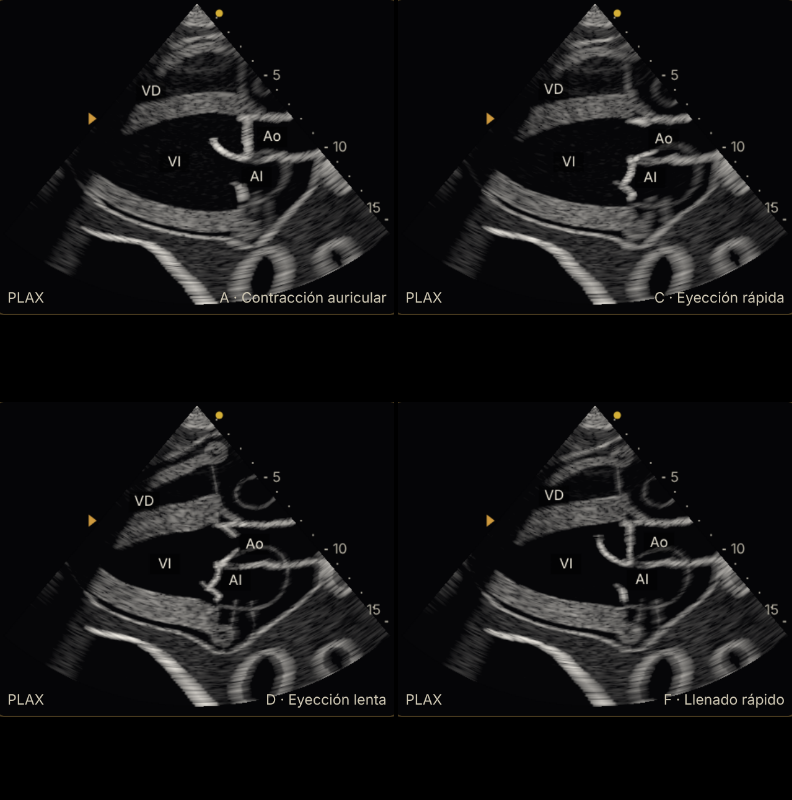
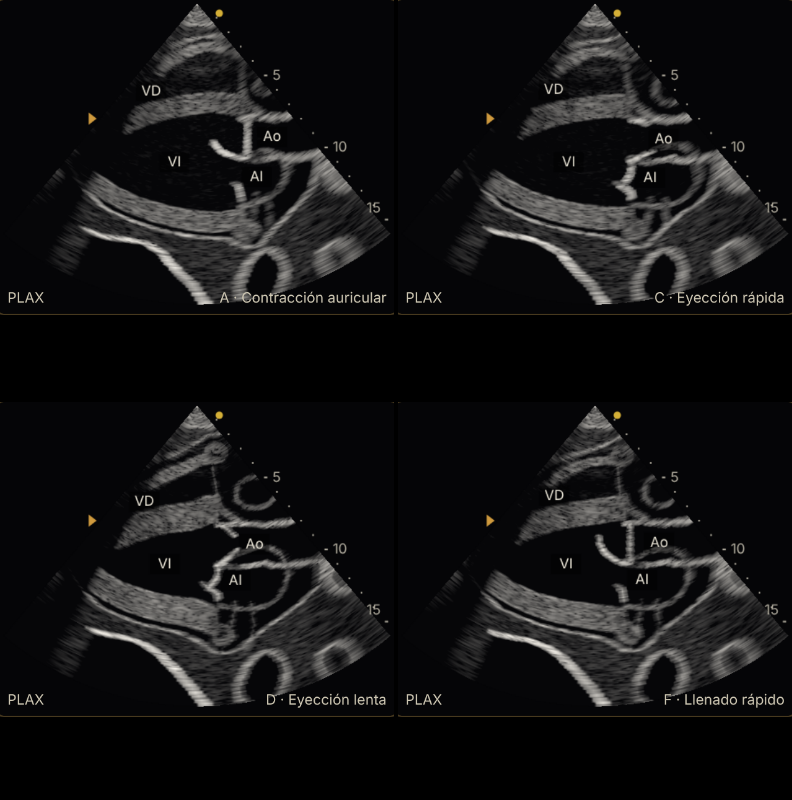
mv-eco-2a5 paso 6: juicio de realismo 1 (9,29) y capturas
Claude-Session: https://claude.ai/code/session_01QiKC3AgYADeMutygoj3HRu

diff --git a/autonomo/bloques/mv-eco/capturas-realismo/mov/cifras-mov-doppler.md b/autonomo/bloques/mv-eco/capturas-realismo/mov/cifras-mov-doppler.md
@@ -2,25 +2,25 @@
 Origen: «monitor» = texto que enseña la app (#cv-l-vi, #cv-d-resultado, #cv-m-resultado, #cv-l-lat); «derivado» = cuenta sobre cifras del monitor; «anatomia.mjs» = tapseDeLatido(motor.ultimo) porque la app solo lo enseña al poner calibres.
 
 ## mov-normal-a4c (normal, a4c; recortes izquierda→derecha, arriba→abajo: A, C, D, F)
-- A · telediástole: VI 119 mL · 10 mmHg · VD 138 mL · 6 mmHg · Ao 71 mmHg · AP 13 · rótulo «A · Contracción auricular»  _[monitor]_
-- C · sístole media: VI 88 mL · 96 mmHg · VD 119 mL · 18 mmHg · Ao 95 mmHg · AP 15 · rótulo «C · Eyección rápida»  _[monitor]_
-- D · fin de sístole: VI 47 mL · 103 mmHg · VD 77 mL · 20 mmHg · Ao 103 mmHg · AP 21 · rótulo «D · Eyección lenta»  _[monitor]_
+- A · telediástole: VI 119 mL · 10 mmHg · VD 138 mL · 6 mmHg · Ao 72 mmHg · AP 13 · rótulo «A · Contracción auricular»  _[monitor]_
+- C · sístole media: VI 88 mL · 97 mmHg · VD 119 mL · 18 mmHg · Ao 95 mmHg · AP 15 · rótulo «C · Eyección rápida»  _[monitor]_
+- D · fin de sístole: VI 47 mL · 103 mmHg · VD 76 mL · 20 mmHg · Ao 104 mmHg · AP 21 · rótulo «D · Eyección lenta»  _[monitor]_
 - F · llenado rápido: VI 71 mL · 4 mmHg · VD 87 mL · 2 mmHg · Ao 86 mmHg · AP 18 · rótulo «F · Llenado rápido»  _[monitor]_
 - VTD (VI, máximo del latido): 120 mL  _[motor.onda (volumen del VI)]_
 - VTS (VI, mínimo del latido): 45 mL  _[motor.onda (volumen del VI)]_
-- FEVI: 63 %  _[derivado (VTD−VTS)/VTD]_
-- Último latido: PA 105/66 (PAM 86) · FC 69 · GC 5.1 L/min · PVC 4  _[monitor]_
+- FEVI: 62 %  _[derivado (VTD−VTS)/VTD]_
+- Último latido: PA 105/67 (PAM 86) · FC 69 · GC 5.0 L/min · PVC 4  _[monitor]_
 - TAPSE: 23 mm  _[anatomia.mjs]_
 
 ## mov-normal-plax (normal, plax; recortes izquierda→derecha, arriba→abajo: A, C, D, F)
-- A · telediástole: VI 119 mL · 10 mmHg · VD 138 mL · 6 mmHg · Ao 71 mmHg · AP 13 · rótulo «A · Contracción auricular»  _[monitor]_
-- C · sístole media: VI 88 mL · 96 mmHg · VD 119 mL · 18 mmHg · Ao 95 mmHg · AP 15 · rótulo «C · Eyección rápida»  _[monitor]_
-- D · fin de sístole: VI 47 mL · 103 mmHg · VD 77 mL · 20 mmHg · Ao 103 mmHg · AP 21 · rótulo «D · Eyección lenta»  _[monitor]_
+- A · telediástole: VI 119 mL · 10 mmHg · VD 138 mL · 6 mmHg · Ao 72 mmHg · AP 13 · rótulo «A · Contracción auricular»  _[monitor]_
+- C · sístole media: VI 88 mL · 97 mmHg · VD 119 mL · 18 mmHg · Ao 95 mmHg · AP 15 · rótulo «C · Eyección rápida»  _[monitor]_
+- D · fin de sístole: VI 47 mL · 103 mmHg · VD 76 mL · 20 mmHg · Ao 104 mmHg · AP 21 · rótulo «D · Eyección lenta»  _[monitor]_
 - F · llenado rápido: VI 71 mL · 4 mmHg · VD 87 mL · 2 mmHg · Ao 86 mmHg · AP 18 · rótulo «F · Llenado rápido»  _[monitor]_
 - VTD (VI, máximo del latido): 120 mL  _[motor.onda (volumen del VI)]_
 - VTS (VI, mínimo del latido): 45 mL  _[motor.onda (volumen del VI)]_
-- FEVI: 63 %  _[derivado (VTD−VTS)/VTD]_
-- Último latido: PA 105/66 (PAM 86) · FC 69 · GC 5.1 L/min · PVC 4  _[monitor]_
+- FEVI: 62 %  _[derivado (VTD−VTS)/VTD]_
+- Último latido: PA 105/67 (PAM 86) · FC 69 · GC 5.0 L/min · PVC 4  _[monitor]_
 - TAPSE: 23 mm  _[anatomia.mjs]_
 
 ## mov-hipertrofia-plax (hipertrofia, g=1, plax; recortes izquierda→derecha, arriba→abajo: A, C, D, F)
@@ -35,37 +35,37 @@ Origen: «monitor» = texto que enseña la app (#cv-l-vi, #cv-d-resultado, #cv-m
 - TAPSE: 13.5 mm  _[anatomia.mjs]_
 
 ## mov-normal-psax (normal, psaxPm; recortes izquierda→derecha, arriba→abajo: A, C, D, F)
-- A · telediástole: VI 119 mL · 10 mmHg · VD 138 mL · 6 mmHg · Ao 71 mmHg · AP 13 · rótulo «A · Contracción auricular»  _[monitor]_
-- C · sístole media: VI 88 mL · 96 mmHg · VD 119 mL · 18 mmHg · Ao 95 mmHg · AP 15 · rótulo «C · Eyección rápida»  _[monitor]_
-- D · fin de sístole: VI 47 mL · 103 mmHg · VD 77 mL · 20 mmHg · Ao 103 mmHg · AP 21 · rótulo «D · Eyección lenta»  _[monitor]_
+- A · telediástole: VI 119 mL · 10 mmHg · VD 138 mL · 6 mmHg · Ao 72 mmHg · AP 13 · rótulo «A · Contracción auricular»  _[monitor]_
+- C · sístole media: VI 88 mL · 97 mmHg · VD 119 mL · 18 mmHg · Ao 95 mmHg · AP 15 · rótulo «C · Eyección rápida»  _[monitor]_
+- D · fin de sístole: VI 47 mL · 103 mmHg · VD 76 mL · 20 mmHg · Ao 104 mmHg · AP 21 · rótulo «D · Eyección lenta»  _[monitor]_
 - F · llenado rápido: VI 71 mL · 4 mmHg · VD 87 mL · 2 mmHg · Ao 86 mmHg · AP 18 · rótulo «F · Llenado rápido»  _[monitor]_
 - VTD (VI, máximo del latido): 120 mL  _[motor.onda (volumen del VI)]_
 - VTS (VI, mínimo del latido): 45 mL  _[motor.onda (volumen del VI)]_
-- FEVI: 63 %  _[derivado (VTD−VTS)/VTD]_
-- Último latido: PA 105/66 (PAM 86) · FC 69 · GC 5.1 L/min · PVC 4  _[monitor]_
+- FEVI: 62 %  _[derivado (VTD−VTS)/VTD]_
+- Último latido: PA 105/67 (PAM 86) · FC 69 · GC 5.0 L/min · PVC 4  _[monitor]_
 - TAPSE: 23 mm  _[anatomia.mjs]_
 
 ## mov-hp-psax (hpcronica, g=1, psaxPm; recortes izquierda→derecha, arriba→abajo: A, C, D, F)
-- A · telediástole: VI 60 mL · 9 mmHg · VD 228 mL · 20 mmHg · Ao 70 mmHg · AP 46 · rótulo «A · Contracción auricular»  _[monitor]_
-- C · sístole media: VI 49 mL · 82 mmHg · VD 218 mL · 58 mmHg · Ao 81 mmHg · AP 61 · rótulo «C · Eyección rápida»  _[monitor]_
-- D · fin de sístole: VI 28 mL · 84 mmHg · VD 204 mL · 92 mmHg · Ao 84 mmHg · AP 92 · rótulo «D · Eyección lenta»  _[monitor]_
-- F · llenado rápido: VI 29 mL · 6 mmHg · VD 196 mL · 19 mmHg · Ao 74 mmHg · AP 59 · rótulo «F · Llenado rápido»  _[monitor]_
+- A · telediástole: VI 59 mL · 9 mmHg · VD 227 mL · 20 mmHg · Ao 70 mmHg · AP 43 · rótulo «A · Contracción auricular»  _[monitor]_
+- C · sístole media: VI 49 mL · 82 mmHg · VD 214 mL · 64 mmHg · Ao 81 mmHg · AP 68 · rótulo «C · Eyección rápida»  _[monitor]_
+- D · fin de sístole: VI 27 mL · 84 mmHg · VD 201 mL · 99 mmHg · Ao 84 mmHg · AP 99 · rótulo «D · Eyección lenta»  _[monitor]_
+- F · llenado rápido: VI 29 mL · 6 mmHg · VD 195 mL · 20 mmHg · Ao 74 mmHg · AP 55 · rótulo «F · Llenado rápido»  _[monitor]_
 - VTD (VI, máximo del latido): 60 mL  _[motor.onda (volumen del VI)]_
-- VTS (VI, mínimo del latido): 27 mL  _[motor.onda (volumen del VI)]_
+- VTS (VI, mínimo del latido): 26 mL  _[motor.onda (volumen del VI)]_
 - FEVI: 56 %  _[derivado (VTD−VTS)/VTD]_
-- Último latido: PA 85/67 (PAM 76) · FC 94 · GC 3.0 L/min · PVC 15  _[monitor]_
+- Último latido: PA 86/67 (PAM 76) · FC 94 · GC 3.0 L/min · PVC 16  _[monitor]_
 - TAPSE: 9.1 mm  _[anatomia.mjs]_
 
 ## mov-tep-a4c (tep, g=1, a4c; recortes izquierda→derecha, arriba→abajo: A, C, D, F)
-- A · telediástole: VI 29 mL · 2 mmHg · VD 219 mL · 18 mmHg · Ao 57 mmHg · AP 23 · rótulo «A · Contracción auricular»  _[monitor]_
-- C · sístole media: VI 39 mL · 63 mmHg · VD 209 mL · 28 mmHg · Ao 62 mmHg · AP 28 · rótulo «C · Eyección rápida»  _[monitor]_
-- D · fin de sístole: VI 25 mL · 64 mmHg · VD 199 mL · 31 mmHg · Ao 64 mmHg · AP 39 · rótulo «D · Eyección lenta»  _[monitor]_
-- F · llenado rápido: VI 43 mL · 3 mmHg · VD 219 mL · 18 mmHg · Ao 56 mmHg · AP 21 · rótulo «F · Llenado rápido»  _[monitor]_
-- VTD (VI, máximo del latido): 45 mL  _[motor.onda (volumen del VI)]_
+- A · telediástole: VI 29 mL · 2 mmHg · VD 218 mL · 17 mmHg · Ao 58 mmHg · AP 23 · rótulo «A · Contracción auricular»  _[monitor]_
+- C · sístole media: VI 39 mL · 64 mmHg · VD 207 mL · 29 mmHg · Ao 63 mmHg · AP 30 · rótulo «C · Eyección rápida»  _[monitor]_
+- D · fin de sístole: VI 25 mL · 64 mmHg · VD 198 mL · 37 mmHg · Ao 65 mmHg · AP 39 · rótulo «D · Eyección lenta»  _[monitor]_
+- F · llenado rápido: VI 43 mL · 3 mmHg · VD 218 mL · 17 mmHg · Ao 56 mmHg · AP 21 · rótulo «F · Llenado rápido»  _[monitor]_
+- VTD (VI, máximo del latido): 46 mL  _[motor.onda (volumen del VI)]_
 - VTS (VI, mínimo del latido): 24 mL  _[motor.onda (volumen del VI)]_
 - FEVI: 47 %  _[derivado (VTD−VTS)/VTD]_
-- Último latido: PA 65/53 (PAM 59) · FC 119 · GC 2.3 L/min · PVC 9  _[monitor]_
-- TAPSE: 6.5 mm  _[anatomia.mjs]_
+- Último latido: PA 66/53 (PAM 59) · FC 118 · GC 2.4 L/min · PVC 9  _[monitor]_
+- TAPSE: 6.7 mm  _[anatomia.mjs]_
 
 ## m-tapse-normal (normal, A4C, modo M, medir TAPSE)
 - TAPSE: 22.9 mm  _[anatomia.mjs (el calibre no se coloca solo: la app lo mide al poner dos puntos)]_
@@ -74,70 +74,70 @@ Origen: «monitor» = texto que enseña la app (#cv-l-vi, #cv-d-resultado, #cv-m
 - Último latido: PA 106/68 (PAM 87) · FC 71 · GC 5.1 L/min · PVC 4  _[monitor]_
 
 ## m-tapse-tep (tep, g=1, A4C, modo M, medir TAPSE)
-- TAPSE: 6.5 mm  _[anatomia.mjs (el calibre no se coloca solo: la app lo mide al poner dos puntos)]_
+- TAPSE: 6.7 mm  _[anatomia.mjs (el calibre no se coloca solo: la app lo mide al poner dos puntos)]_
 - Texto del modo M: Sin medida: toca dos puntos sobre el trazado.  _[monitor]_
 - Guía: Línea M sobre el anillo tricuspídeo lateral (apical 4 cámaras). Pulsa ⏸ Pausa, pon un calibre en el punto más alto del anillo (telediástole) y otro en el más bajo (telesístole): la distancia vertical es el TAPSE.  _[monitor]_
-- Último latido: PA 65/53 (PAM 59) · FC 119 · GC 2.3 L/min · PVC 9  _[monitor]_
+- Último latido: PA 66/53 (PAM 59) · FC 118 · GC 2.4 L/min · PVC 9  _[monitor]_
 
 ## d-mitral-normal (normal, preajuste mitral)
-- Resultado del Doppler: Mitral · ángulo haz-flujo 16° (se mide v·cos θ) E 69 cm/s · A 61 cm/s · E/A 1,13 (normal 1-1,5 en la Ficha 5; 0,69-2,73 a 20-60 años en Nagueh 2025 p. 551: dos fuentes, sin elegir ganadora) · TDE 192 ms (normal 140-250) Referencias de la Ficha 5 de Fisiopatología UCI · Cardiología. Las velocidades son del modelo (flujo del motor entre el área del anillo); el TDE sale de la inercia de la sangre que cruza la mitral (calibrada en el motor).  _[monitor]_
-- Medidas internas (E, A, E/A, TDE/DT, pico, ITV): {"tipo":"llenado","E":69.2,"A":61.11,"ea":1.13,"tde":192,"fusion":false}  _[monitor interno de la app (__eco.doppler.medidas); e′ no la da hoy]_
+- Resultado del Doppler: Mitral · ángulo haz-flujo 15° (se mide v·cos θ) E 66 cm/s · A 58 cm/s · E/A 1,13 (normal 1-1,5 en la Ficha 5; 0,69-2,73 a 20-60 años en Nagueh 2025 p. 551: dos fuentes, sin elegir ganadora) · TDE 192 ms (normal 140-250) Referencias de la Ficha 5 de Fisiopatología UCI · Cardiología. Las velocidades son del modelo (flujo del motor entre el área del anillo); el TDE sale de la inercia de la sangre que cruza la mitral (calibrada en el motor).  _[monitor]_
+- Medidas internas (E, A, E/A, TDE/DT, pico, ITV): {"tipo":"llenado","E":65.68,"A":58,"ea":1.13,"tde":192,"fusion":false}  _[monitor interno de la app (__eco.doppler.medidas); e′ no la da hoy]_
 - Último latido: PA 106/68 (PAM 87) · FC 71 · GC 5.1 L/min · PVC 4  _[monitor]_
 - TAPSE: 22.9 mm  _[anatomia.mjs]_
 
 ## d-mitral-dilatada (dilatada, g=1, preajuste mitral)
-- Resultado del Doppler: Mitral · ángulo haz-flujo 11° (se mide v·cos θ) E 75 cm/s · A 32 cm/s · E/A 2,35 (normal 1-1,5 en la Ficha 5; 0,69-2,73 a 20-60 años en Nagueh 2025 p. 551: dos fuentes, sin elegir ganadora) · TDE 132 ms (normal 140-250) Referencias de la Ficha 5 de Fisiopatología UCI · Cardiología. Las velocidades son del modelo (flujo del motor entre el área del anillo); el TDE sale de la inercia de la sangre que cruza la mitral (calibrada en el motor).  _[monitor]_
-- Medidas internas (E, A, E/A, TDE/DT, pico, ITV): {"tipo":"llenado","E":75.12,"A":31.91,"ea":2.35,"tde":132,"fusion":false}  _[monitor interno de la app (__eco.doppler.medidas); e′ no la da hoy]_
+- Resultado del Doppler: Mitral · ángulo haz-flujo 12° (se mide v·cos θ) E 74 cm/s · A 31 cm/s · E/A 2,35 (normal 1-1,5 en la Ficha 5; 0,69-2,73 a 20-60 años en Nagueh 2025 p. 551: dos fuentes, sin elegir ganadora) · TDE 132 ms (normal 140-250) Referencias de la Ficha 5 de Fisiopatología UCI · Cardiología. Las velocidades son del modelo (flujo del motor entre el área del anillo); el TDE sale de la inercia de la sangre que cruza la mitral (calibrada en el motor).  _[monitor]_
+- Medidas internas (E, A, E/A, TDE/DT, pico, ITV): {"tipo":"llenado","E":73.83,"A":31.36,"ea":2.35,"tde":132,"fusion":false}  _[monitor interno de la app (__eco.doppler.medidas); e′ no la da hoy]_
 - Último latido: PA 92/68 (PAM 80) · FC 85 · GC 3.7 L/min · PVC 9  _[monitor]_
 - TAPSE: 15.8 mm  _[anatomia.mjs]_
 
 ## d-mitral-fallo (fallo, g=1, preajuste mitral)
-- Resultado del Doppler: Mitral · ángulo haz-flujo 12° (se mide v·cos θ) Fusión E-A (FC alta): E/A y TDE no medibles. Velocidad pico de la onda fundida 42 cm/s Con la FC alta la contracción auricular empieza antes de que acabe el llenado rápido y las dos ondas se funden en una: no se separa la E de la A ni se mide el tiempo de desaceleración. Nagueh 2025 p. 547 · p. 557 (tabla 7). Origen: ficha.  _[monitor]_
-- Medidas internas (E, A, E/A, TDE/DT, pico, ITV): {"tipo":"llenado","E":36.16,"A":42.05,"ea":0.86,"tde":null,"fusion":true}  _[monitor interno de la app (__eco.doppler.medidas); e′ no la da hoy]_
+- Resultado del Doppler: Mitral · ángulo haz-flujo 13° (se mide v·cos θ) Fusión E-A (FC alta): E/A y TDE no medibles. Velocidad pico de la onda fundida 41 cm/s Con la FC alta la contracción auricular empieza antes de que acabe el llenado rápido y las dos ondas se funden en una: no se separa la E de la A ni se mide el tiempo de desaceleración. Nagueh 2025 p. 547 · p. 557 (tabla 7). Origen: ficha.  _[monitor]_
+- Medidas internas (E, A, E/A, TDE/DT, pico, ITV): {"tipo":"llenado","E":35.34,"A":41.19,"ea":0.86,"tde":null,"fusion":true}  _[monitor interno de la app (__eco.doppler.medidas); e′ no la da hoy]_
 - Último latido: PA 64/53 (PAM 58) · FC 119 · GC 2.4 L/min · PVC 7  _[monitor]_
 - TAPSE: 9.9 mm  _[anatomia.mjs]_
 
 ## d-mitral-hipertrofia (hipertrofia, g=1, preajuste mitral)
-- Resultado del Doppler: Mitral · ángulo haz-flujo 17° (se mide v·cos θ) E 66 cm/s · A 47 cm/s · E/A 1,40 (normal 1-1,5 en la Ficha 5; 0,69-2,73 a 20-60 años en Nagueh 2025 p. 551: dos fuentes, sin elegir ganadora) · TDE 216 ms (normal 140-250) Referencias de la Ficha 5 de Fisiopatología UCI · Cardiología. Las velocidades son del modelo (flujo del motor entre el área del anillo); el TDE sale de la inercia de la sangre que cruza la mitral (calibrada en el motor).  _[monitor]_
-- Medidas internas (E, A, E/A, TDE/DT, pico, ITV): {"tipo":"llenado","E":65.82,"A":46.87,"ea":1.4,"tde":216,"fusion":false}  _[monitor interno de la app (__eco.doppler.medidas); e′ no la da hoy]_
+- Resultado del Doppler: Mitral · ángulo haz-flujo 17° (se mide v·cos θ) E 64 cm/s · A 46 cm/s · E/A 1,40 (normal 1-1,5 en la Ficha 5; 0,69-2,73 a 20-60 años en Nagueh 2025 p. 551: dos fuentes, sin elegir ganadora) · TDE 216 ms (normal 140-250) Referencias de la Ficha 5 de Fisiopatología UCI · Cardiología. Las velocidades son del modelo (flujo del motor entre el área del anillo); el TDE sale de la inercia de la sangre que cruza la mitral (calibrada en el motor).  _[monitor]_
+- Medidas internas (E, A, E/A, TDE/DT, pico, ITV): {"tipo":"llenado","E":64.36,"A":45.83,"ea":1.4,"tde":216,"fusion":false}  _[monitor interno de la app (__eco.doppler.medidas); e′ no la da hoy]_
 - Último latido: PA 97/71 (PAM 84) · FC 76 · GC 3.6 L/min · PVC 7  _[monitor]_
 - TAPSE: 13.5 mm  _[anatomia.mjs]_
 
 ## d-tsvi-normal (normal, preajuste tsvi)
 - Resultado del Doppler: Aórtica · tracto de salida · ángulo haz-flujo 7° (se mide v·cos θ) ITV 21,4 cm (normal 18-22 cm, Ficha 11) · pico 120 cm/s El pico es del modelo: su eyección es más afilada de lo normal (pendiente de calibrar); el ITV no depende de eso.  _[monitor]_
-- Medidas internas (E, A, E/A, TDE/DT, pico, ITV): {"tipo":"eyeccion","pico":119.72,"itv":21.35}  _[monitor interno de la app (__eco.doppler.medidas); e′ no la da hoy]_
+- Medidas internas (E, A, E/A, TDE/DT, pico, ITV): {"tipo":"eyeccion","pico":119.73,"itv":21.35}  _[monitor interno de la app (__eco.doppler.medidas); e′ no la da hoy]_
 - Último latido: PA 106/68 (PAM 87) · FC 71 · GC 5.1 L/min · PVC 4  _[monitor]_
 - TAPSE: 22.9 mm  _[anatomia.mjs]_
 
 ## d-regmitral-dilatada (dilatada, g=1, preajuste regmitral)
-- Resultado del Doppler: Insuficiencia mitral · chorro · ángulo haz-flujo 20° (se mide v·cos θ) Chorro sistólico hacia la AI (se aleja de la sonda): en la muestra, pico 209 cm/s · ITV 71,0 cm En el orificio el chorro llega a 386 cm/s (ΔP VI−AI ≈ 4v² = 60 mmHg). Vena contracta 0,56 cm (calculada del EROA como un orificio redondo, no medida en la imagen; Zoghbi: <0,3 cm leve, ≥0,7 cm grave; intermedia: los valores intermedios se solapan entre grados, confírmalo con otros métodos). Tras ella el chorro se abre en cono y arrastra sangre: ocupa más AI cuanto más EROA, pero el área del chorro no sirve sola para graduar. En la IM secundaria el orificio es elíptico y la vena contracta en 2D la subestima. Zoghbi p. 328 · p. 308 (área del chorro) Q = EROA · 50 · √ΔP del motor; v = √ΔP / 2 m/s (Bernoulli). En la muestra se mide v·cos θ y baja si no está en el centro del chorro. Ilustrativo.  _[monitor]_
-- Medidas internas (E, A, E/A, TDE/DT, pico, ITV): {"tipo":"regurgitacion","pico":209.41,"itv":71}  _[monitor interno de la app (__eco.doppler.medidas); e′ no la da hoy]_
+- Resultado del Doppler: Insuficiencia mitral · chorro · ángulo haz-flujo 20° (se mide v·cos θ) Chorro sistólico hacia la AI (se aleja de la sonda): en la muestra, pico 363 cm/s · ITV 122,9 cm En el orificio el chorro llega a 386 cm/s (ΔP VI−AI ≈ 4v² = 60 mmHg). Vena contracta 0,56 cm (calculada del EROA como un orificio redondo, no medida en la imagen; Zoghbi: <0,3 cm leve, ≥0,7 cm grave; intermedia: los valores intermedios se solapan entre grados, confírmalo con otros métodos). Tras ella el chorro se abre en cono y arrastra sangre: ocupa más AI cuanto más EROA, pero el área del chorro no sirve sola para graduar. En la IM secundaria el orificio es elíptico y la vena contracta en 2D la subestima. Zoghbi p. 328 · p. 308 (área del chorro) Q = EROA · 50 · √ΔP del motor; v = √ΔP / 2 m/s (Bernoulli). En el CW el haz atraviesa el chorro y se lee su máximo × cos θ (la línea de base sube para aprovechar la pantalla; escala e inclinación ilustrativas).  _[monitor]_
+- Medidas internas (E, A, E/A, TDE/DT, pico, ITV): {"tipo":"regurgitacion","pico":362.62,"itv":122.94}  _[monitor interno de la app (__eco.doppler.medidas); e′ no la da hoy]_
 - Último latido: PA 92/68 (PAM 80) · FC 85 · GC 3.7 L/min · PVC 9  _[monitor]_
 - TAPSE: 15.8 mm  _[anatomia.mjs]_
 
 ## d-regmitral-fallo (fallo, g=1, preajuste regmitral)
-- Resultado del Doppler: Mitral · ángulo haz-flujo 13° (se mide v·cos θ) Fusión E-A (FC alta): E/A y TDE no medibles. Velocidad pico de la onda fundida 43 cm/s Con la FC alta la contracción auricular empieza antes de que acabe el llenado rápido y las dos ondas se funden en una: no se separa la E de la A ni se mide el tiempo de desaceleración. Nagueh 2025 p. 547 · p. 557 (tabla 7). Origen: ficha.  _[monitor]_
-- Medidas internas (E, A, E/A, TDE/DT, pico, ITV): {"tipo":"llenado","E":37.07,"A":43.11,"ea":0.86,"tde":null,"fusion":true}  _[monitor interno de la app (__eco.doppler.medidas); e′ no la da hoy]_
+- Resultado del Doppler: Mitral · ángulo haz-flujo 13° (se mide v·cos θ) Fusión E-A (FC alta): E/A y TDE no medibles. Velocidad pico de la onda fundida 41 cm/s Con la FC alta la contracción auricular empieza antes de que acabe el llenado rápido y las dos ondas se funden en una: no se separa la E de la A ni se mide el tiempo de desaceleración. Nagueh 2025 p. 547 · p. 557 (tabla 7). Origen: ficha.  _[monitor]_
+- Medidas internas (E, A, E/A, TDE/DT, pico, ITV): {"tipo":"llenado","E":35.31,"A":41.15,"ea":0.86,"tde":null,"fusion":true}  _[monitor interno de la app (__eco.doppler.medidas); e′ no la da hoy]_
 - Último latido: PA 64/53 (PAM 58) · FC 119 · GC 2.4 L/min · PVC 7  _[monitor]_
 - TAPSE: 9.9 mm  _[anatomia.mjs]_
 
 ## d-it-cw-normal (normal, preajuste regtricus)
-- Resultado del Doppler: Insuficiencia tricuspídea · chorro · ángulo haz-flujo 15° (se mide v·cos θ) Chorro sistólico hacia la AD (se aleja de la sonda): en la muestra, vIT 1,92 m/s · ITV 68,3 cm PSAP estimada = 4·vIT² + PVC = 20 mmHg (vIT corregida por el ángulo: 1,99 m/s; sin corregir sería 19) (normal: vIT ≤ 2,8 m/s; > 3,4 m/s sugiere hipertensión pulmonar, ESC/ERS 2022). v = √(ΔP VD−AD / 4) con la presión del motor; el espectro muestra v·cos θ (el haz no está alineado del todo con el chorro) y la PSAP se corrige dividiendo por cos θ, como al alinear el haz. La vIT es el pico del latido (la máxima presión VD − AD de ese instante, con la AD de ese instante); la PSAP suma la PVC media, por eso difiere unos mmHg de la presión máxima del VD del motor. Ilustrativo.  _[monitor]_
-- Medidas internas (E, A, E/A, TDE/DT, pico, ITV): {"tipo":"regurgitacion","pico":192.48,"itv":68.26,"vIT":1.92,"psap":19.39}  _[monitor interno de la app (__eco.doppler.medidas); e′ no la da hoy]_
+- Resultado del Doppler: Insuficiencia tricuspídea · chorro · ángulo haz-flujo 18° (se mide v·cos θ) Chorro sistólico hacia la AD (se aleja de la sonda): en la muestra, vIT 1,90 m/s · ITV 67,2 cm PSAP estimada = 4·vIT² + PVC = 20 mmHg (vIT corregida por el ángulo: 1,99 m/s; sin corregir sería 19) (normal: vIT ≤ 2,8 m/s; > 3,4 m/s sugiere hipertensión pulmonar, ESC/ERS 2022). v = √(ΔP VD−AD / 4) con la presión del motor; el espectro muestra v·cos θ (el haz no está alineado del todo con el chorro) y la PSAP se corrige dividiendo por cos θ, como al alinear el haz. La vIT es el pico del latido (la máxima presión VD − AD de ese instante, con la AD de ese instante); la PSAP suma la PVC media, por eso difiere unos mmHg de la presión máxima del VD del motor. Ilustrativo.  _[monitor]_
+- Medidas internas (E, A, E/A, TDE/DT, pico, ITV): {"tipo":"regurgitacion","pico":189.76,"itv":67.23,"vIT":1.9,"psap":18.97}  _[monitor interno de la app (__eco.doppler.medidas); e′ no la da hoy]_
 - Último latido: PA 105/68 (PAM 86) · FC 72 · GC 5.0 L/min · PVC 5  _[monitor]_
 - TAPSE: 22.2 mm  _[anatomia.mjs]_
 
 ## d-it-cw-hpcronica (hpcronica, g=1, preajuste regtricus)
-- Resultado del Doppler: Insuficiencia tricuspídea · chorro · ángulo haz-flujo 20° (se mide v·cos θ) Chorro sistólico hacia la AD (se aleja de la sonda): en la muestra, vIT 3,89 m/s · ITV 146,6 cm PSAP estimada = 4·vIT² + PVC = 84 mmHg (vIT corregida por el ángulo: 4,13 m/s; sin corregir sería 76) (normal: vIT ≤ 2,8 m/s; > 3,4 m/s sugiere hipertensión pulmonar, ESC/ERS 2022). v = √(ΔP VD−AD / 4) con la presión del motor; el espectro muestra v·cos θ (el haz no está alineado del todo con el chorro) y la PSAP se corrige dividiendo por cos θ, como al alinear el haz. La vIT es el pico del latido (la máxima presión VD − AD de ese instante, con la AD de ese instante); la PSAP suma la PVC media, por eso difiere unos mmHg de la presión máxima del VD del motor. Ilustrativo.  _[monitor]_
-- Medidas internas (E, A, E/A, TDE/DT, pico, ITV): {"tipo":"regurgitacion","pico":388.58,"itv":146.55,"vIT":3.89,"psap":76.19}  _[monitor interno de la app (__eco.doppler.medidas); e′ no la da hoy]_
-- Último latido: PA 83/65 (PAM 74) · FC 93 · GC 2.9 L/min · PVC 16  _[monitor]_
+- Resultado del Doppler: Insuficiencia tricuspídea · chorro · ángulo haz-flujo 17° (se mide v·cos θ) Chorro sistólico hacia la AD (se aleja de la sonda): en la muestra, vIT 4,07 m/s · ITV 147,0 cm PSAP estimada = 4·vIT² + PVC = 89 mmHg (vIT corregida por el ángulo: 4,27 m/s; sin corregir sería 82) (normal: vIT ≤ 2,8 m/s; > 3,4 m/s sugiere hipertensión pulmonar, ESC/ERS 2022). v = √(ΔP VD−AD / 4) con la presión del motor; el espectro muestra v·cos θ (el haz no está alineado del todo con el chorro) y la PSAP se corrige dividiendo por cos θ, como al alinear el haz. La vIT es el pico del latido (la máxima presión VD − AD de ese instante, con la AD de ese instante); la PSAP suma la PVC media, por eso difiere unos mmHg de la presión máxima del VD del motor. Ilustrativo.  _[monitor]_
+- Medidas internas (E, A, E/A, TDE/DT, pico, ITV): {"tipo":"regurgitacion","pico":407.41,"itv":147.03,"vIT":4.07,"psap":82.2}  _[monitor interno de la app (__eco.doppler.medidas); e′ no la da hoy]_
+- Último latido: PA 84/65 (PAM 74) · FC 93 · GC 2.9 L/min · PVC 16  _[monitor]_
 - TAPSE: 9.1 mm  _[anatomia.mjs]_
 
 ## d-it-cw-tep (tep, g=1, preajuste regtricus)
-- Resultado del Doppler: Insuficiencia tricuspídea · chorro · ángulo haz-flujo 22° (se mide v·cos θ) Chorro sistólico hacia la AD (se aleja de la sonda): en la muestra, vIT 2,40 m/s · ITV 64,0 cm PSAP estimada = 4·vIT² + PVC = 37 mmHg (vIT corregida por el ángulo: 2,59 m/s; sin corregir sería 33) (normal: vIT ≤ 2,8 m/s; > 3,4 m/s sugiere hipertensión pulmonar, ESC/ERS 2022). v = √(ΔP VD−AD / 4) con la presión del motor; el espectro muestra v·cos θ (el haz no está alineado del todo con el chorro) y la PSAP se corrige dividiendo por cos θ, como al alinear el haz. La vIT es el pico del latido (la máxima presión VD − AD de ese instante, con la AD de ese instante); la PSAP suma la PVC media, por eso difiere unos mmHg de la presión máxima del VD del motor. Ilustrativo.  _[monitor]_
-- Medidas internas (E, A, E/A, TDE/DT, pico, ITV): {"tipo":"regurgitacion","pico":239.76,"itv":63.97,"vIT":2.4,"psap":32.6}  _[monitor interno de la app (__eco.doppler.medidas); e′ no la da hoy]_
-- Último latido: PA 65/53 (PAM 59) · FC 118 · GC 2.3 L/min · PVC 10  _[monitor]_
-- TAPSE: 6.8 mm  _[anatomia.mjs]_
+- Resultado del Doppler: Insuficiencia tricuspídea · chorro · ángulo haz-flujo 17° (se mide v·cos θ) Chorro sistólico hacia la AD (se aleja de la sonda): en la muestra, vIT 2,51 m/s · ITV 73,5 cm PSAP estimada = 4·vIT² + PVC = 37 mmHg (vIT corregida por el ángulo: 2,62 m/s; sin corregir sería 35) (normal: vIT ≤ 2,8 m/s; > 3,4 m/s sugiere hipertensión pulmonar, ESC/ERS 2022). v = √(ΔP VD−AD / 4) con la presión del motor; el espectro muestra v·cos θ (el haz no está alineado del todo con el chorro) y la PSAP se corrige dividiendo por cos θ, como al alinear el haz. La vIT es el pico del latido (la máxima presión VD − AD de ese instante, con la AD de ese instante); la PSAP suma la PVC media, por eso difiere unos mmHg de la presión máxima del VD del motor. Ilustrativo.  _[monitor]_
+- Medidas internas (E, A, E/A, TDE/DT, pico, ITV): {"tipo":"regurgitacion","pico":250.83,"itv":73.53,"vIT":2.51,"psap":34.77}  _[monitor interno de la app (__eco.doppler.medidas); e′ no la da hoy]_
+- Último latido: PA 66/53 (PAM 59) · FC 118 · GC 2.3 L/min · PVC 10  _[monitor]_
+- TAPSE: 6.9 mm  _[anatomia.mjs]_
 
 ## Errores de consola
 ninguno

diff --git a/autonomo/bloques/mv-eco/capturas-realismo/cifras.md b/autonomo/bloques/mv-eco/capturas-realismo/cifras.md
@@ -4,13 +4,13 @@
 - fase: A · Contracción auricular
 - titulo: A4C
 - grav: 
-- Último latido: PA 105/66 (PAM 86) · FC 69 · GC 5.1 L/min · PVC 4
+- Último latido: PA 105/67 (PAM 86) · FC 69 · GC 5.0 L/min · PVC 4
 - VI en esta fase: 119 mL · 10 mmHg
 - VD en esta fase: 138 mL · 6 mmHg
-- Aorta: 71 mmHg · AP 13
+- Aorta: 72 mmHg · AP 13
 - Aurículas: AI 25 · AD 18 mL
 - VI/VD telediastólico (el que dibuja la imagen): VI 120 mL · VD 138 mL
-- motor: FC 69 · PAM 86 · PA 105/undefined · GC 5.07 · PVC 4.3
+- motor: FC 69 · PAM 86 · PA 105/undefined · GC 5.03 · PVC 4.3
 - pantalla: mezcla
 
 ## normal-psax (normal, psaxPm, dibujo 2)
@@ -43,52 +43,52 @@
 - fase: A · Contracción auricular
 - titulo: A4C
 - grav: resistencia pulmonar ×12,0, pared del VD ×2,4. Ilustrativo: 0 % es el corazón normal y 100 %, el VD que claudica.
-- Último latido: PA 85/67 (PAM 76) · FC 94 · GC 3.0 L/min · PVC 15
-- VI en esta fase: 60 mL · 9 mmHg
-- VD en esta fase: 228 mL · 20 mmHg
-- Aorta: 70 mmHg · AP 46
+- Último latido: PA 86/67 (PAM 76) · FC 94 · GC 3.0 L/min · PVC 16
+- VI en esta fase: 59 mL · 9 mmHg
+- VD en esta fase: 227 mL · 20 mmHg
+- Aorta: 70 mmHg · AP 43
 - Aurículas: AI 23 · AD 42 mL
-- VI/VD telediastólico (el que dibuja la imagen): VI 60 mL · VD 228 mL
-- motor: FC 94 · PAM 76 · PA 85/undefined · GC 3.02 · PVC 15.5
+- VI/VD telediastólico (el que dibuja la imagen): VI 60 mL · VD 227 mL
+- motor: FC 94 · PAM 76 · PA 86/undefined · GC 3.02 · PVC 15.5
 - pantalla: mezcla
 
 ## hp-psax (hpcronica, g=1, psaxPm, dibujo 2)
 - fase: A · Contracción auricular
 - titulo: PSAX papilares
 - grav: resistencia pulmonar ×12,0, pared del VD ×2,4. Ilustrativo: 0 % es el corazón normal y 100 %, el VD que claudica.
-- Último latido: PA 85/67 (PAM 76) · FC 94 · GC 3.0 L/min · PVC 15
-- VI en esta fase: 60 mL · 9 mmHg
-- VD en esta fase: 228 mL · 20 mmHg
-- Aorta: 70 mmHg · AP 46
+- Último latido: PA 86/67 (PAM 76) · FC 94 · GC 3.0 L/min · PVC 16
+- VI en esta fase: 59 mL · 9 mmHg
+- VD en esta fase: 227 mL · 20 mmHg
+- Aorta: 70 mmHg · AP 43
 - Aurículas: AI 23 · AD 42 mL
-- VI/VD telediastólico (el que dibuja la imagen): VI 60 mL · VD 228 mL
-- motor: FC 94 · PAM 76 · PA 85/undefined · GC 3.02 · PVC 15.5
+- VI/VD telediastólico (el que dibuja la imagen): VI 60 mL · VD 227 mL
+- motor: FC 94 · PAM 76 · PA 86/undefined · GC 3.02 · PVC 15.5
 - pantalla: mezcla
 
 ## tep-a4c (tep, g=1, a4c, dibujo 2)
 - fase: A · Contracción auricular
 - titulo: A4C
 - grav: resistencia pulmonar ×6,6. Riesgo alto (masivo): disfunción del VD con inestabilidad hemodinámica, PAM <70 mmHg (Marino cap. 22, PDF p. 7; cap. 14, PDF p. 2). Ilustrativo: 0 % es el corazón normal y 100 %, el TEP de alto riesgo a fondo (masivo: hipotensión, PAM <70 mmHg; Marino cap. 22, PDF p. 7, y cap. 14, PDF p. 2).
-- Último latido: PA 65/53 (PAM 59) · FC 119 · GC 2.3 L/min · PVC 9
-- VI en esta fase: 29 mL · 2 mmHg
-- VD en esta fase: 219 mL · 18 mmHg
+- Último latido: PA 66/53 (PAM 59) · FC 118 · GC 2.4 L/min · PVC 9
+- VI en esta fase: 30 mL · 2 mmHg
+- VD en esta fase: 218 mL · 17 mmHg
 - Aorta: 57 mmHg · AP 23
-- Aurículas: AI 30 · AD 32 mL
-- VI/VD telediastólico (el que dibuja la imagen): VI 45 mL · VD 219 mL
-- motor: FC 119 · PAM 59 · PA 65/undefined · GC 2.34 · PVC 9.4
+- Aurículas: AI 29 · AD 32 mL
+- VI/VD telediastólico (el que dibuja la imagen): VI 46 mL · VD 218 mL
+- motor: FC 118 · PAM 59 · PA 66/undefined · GC 2.37 · PVC 9.4
 - pantalla: mezcla
 
 ## tep-psax (tep, g=1, psaxPm, dibujo 2)
 - fase: A · Contracción auricular
 - titulo: PSAX papilares
 - grav: resistencia pulmonar ×6,6. Riesgo alto (masivo): disfunción del VD con inestabilidad hemodinámica, PAM <70 mmHg (Marino cap. 22, PDF p. 7; cap. 14, PDF p. 2). Ilustrativo: 0 % es el corazón normal y 100 %, el TEP de alto riesgo a fondo (masivo: hipotensión, PAM <70 mmHg; Marino cap. 22, PDF p. 7, y cap. 14, PDF p. 2).
-- Último latido: PA 65/53 (PAM 59) · FC 119 · GC 2.3 L/min · PVC 9
-- VI en esta fase: 29 mL · 2 mmHg
-- VD en esta fase: 219 mL · 18 mmHg
+- Último latido: PA 66/53 (PAM 59) · FC 118 · GC 2.4 L/min · PVC 9
+- VI en esta fase: 30 mL · 2 mmHg
+- VD en esta fase: 218 mL · 17 mmHg
 - Aorta: 57 mmHg · AP 23
-- Aurículas: AI 30 · AD 32 mL
-- VI/VD telediastólico (el que dibuja la imagen): VI 45 mL · VD 219 mL
-- motor: FC 119 · PAM 59 · PA 65/undefined · GC 2.34 · PVC 9.4
+- Aurículas: AI 29 · AD 32 mL
+- VI/VD telediastólico (el que dibuja la imagen): VI 46 mL · VD 218 mL
+- motor: FC 118 · PAM 59 · PA 66/undefined · GC 2.37 · PVC 9.4
 - pantalla: mezcla
 
 ## dilatada-a4c (dilatada, g=1, a4c, dibujo 2)
@@ -134,13 +134,13 @@
 - fase: A · Contracción auricular
 - titulo: A4C
 - grav: resistencia pulmonar ×12,0, pared del VD ×2,4. Ilustrativo: 0 % es el corazón normal y 100 %, el VD que claudica.
-- Último latido: PA 85/67 (PAM 76) · FC 94 · GC 3.0 L/min · PVC 15
-- VI en esta fase: 60 mL · 9 mmHg
-- VD en esta fase: 228 mL · 20 mmHg
-- Aorta: 70 mmHg · AP 46
+- Último latido: PA 86/67 (PAM 76) · FC 94 · GC 3.0 L/min · PVC 16
+- VI en esta fase: 59 mL · 9 mmHg
+- VD en esta fase: 227 mL · 20 mmHg
+- Aorta: 70 mmHg · AP 43
 - Aurículas: AI 23 · AD 42 mL
-- VI/VD telediastólico (el que dibuja la imagen): VI 60 mL · VD 228 mL
-- motor: FC 94 · PAM 76 · PA 85/undefined · GC 3.02 · PVC 15.5
+- VI/VD telediastólico (el que dibuja la imagen): VI 60 mL · VD 227 mL
+- motor: FC 94 · PAM 76 · PA 86/undefined · GC 3.02 · PVC 15.5
 - pantalla: mezcla
 
 ## Errores de consola

diff --git a/autonomo/bloques/mv-eco/paso6/juicio-1.md b/autonomo/bloques/mv-eco/paso6/juicio-1.md
@@ -1,0 +1,22 @@
+# Juicio de realismo · dibujo 2 · paso 6, vuelta 1 (profesor fable, 01/11, versión 20261101-20)
+Capturas: `capturas-realismo/*.png` + `mov/*.png` (regeneradas hoy, 0 errores de consola); referencias: Zoghbi 2017 Fig. 29-30 (PDF p. 49), Mitchell 2019 A4C reales (PDF p. 29) y ESC/ERS 2022 Tabla 10 (PDF p. 28 = pág. 3645).
+| Criterio | antes | ahora | Qué falta para el 10 |
+|---|---|---|---|
+| 1 Proporciones | 9,25 | 9,5 | Sector A4C 89-97° es real (los A4C de Mitchell p. 29 abren ~90°). Queda: TEP g=1 VD 218 / VI 46 mL (razón 4,7, al borde) y el anillo doble de la aorta descendente tras la AI, grande y muy brillante en los 4 escenarios (corazon-geo.mjs, aurículas/aorta descendente) |
+| 2 Forma | 9,25 | 9,5 | Dilatada ya globular (índice 1,23, como Mitchell Fig. 8) ✓; D del VI en sístole media en la HP ✓. Queda: VI normal 1,48 (ilustrativo 1,6-2, D4 informe) y la AI de la dilatada/TEP «en caja», con esquinas |
+| 3 Textura | 9,0 | 9,5 | Escalera del SC4C fuera ✓; AD del TEP con pared gris real ✓. Queda: la AI tan gruesa y brillante como el VI en dilatada y TEP (eco-tejidos.js `PARED_AURICULAR_NUEVO`, −3/−4 dB); la caída lateral del SC4C son rayas horizontales «a pincel» en el borde izquierdo (ecografia.mjs); el relleno del CW es un bloque uniforme sin densidad modal |
+| 4 Movimiento | 9,0 | 9,25 | HP: tabique plano en A, C, D y F (EI 1,16) ✓. McConnell: en los 4 fotogramas del TEP el ápex del VD se cierra y la pared media no se mueve, pero a 390 px se lee solo si se sabe lo que buscar (≈11 px). Falta: foco VD por defecto en el TEP (Mitchell p. 30) o mayor contraste, y que el ápex salga del motor (hoy el cierre del 50 % es del dibujo, FEVD 8 %) |
+| 5 Doppler y modo M | 8,5 | 9,0 | HP: domo parabólico, denso, base arriba, como Zoghbi Fig. 30 ✓. IM dilatada: domo liso 363 = 386·cos 20° ✓. Quedan: **TEP g=1 en «W»** (muesca a mitad de sístole y señal que nunca vuelve a la base: −100/−150 cm/s en diástole porque pVD 17 > pAD 9 con la tricúspide abierta: motor); normal en bañera con doble joroba (33 %/0,64/0,77, «no se toca» en M1); escala fija ±700 (normal y TEP usan el 30 % de la pantalla; la IM pico −363 toca el fondo de −350); sin flujo diastólico positivo E/A sobre la base, que en Zoghbi Fig. 29 se ve en los tres paneles |
+| 6 Extremos | 9,0 | 9,0 | No remedido (juez geometría 0/147 de los constructores). Pendientes del m1-informe: HP/TEP g=0 ya no son el normal del motor y g<0,4 pico 30/70 %; el gradiente VD−AD diastólico del TEP (arriba). Móvil: con la gravedad visible `.cv-eco-fijo` es sticky (components.css:2486) y en el TEP el texto de 5 líneas de `#cv-grav-txt` tapa el espectro al desplazarse hasta el Doppler o el modo M (capturas d-it-cw-tep y m-tapse-tep; comprobado con elementFromPoint) |
+**Media 9,29 (antes 9,0) · no pasa el 9,5** (ninguno <9, pero la media no llega). Pasan de lo pedido: IM en domo, base arriba, D en sístole media, dilatada globular, subcostal sin escalera, paredes auriculares, apertura. Falla sobre todo el CW del TEP, que es el que vería el residente en la guardia.
+## Arreglos, en orden, para 9,85-10
+1. **Motor** · motor.mjs (presión del VD en diástole / tricúspide): en TEP g=1 pVD−pAD ≈ 8 mmHg con la válvula abierta → v −1,4 m/s en diástole; con la tricúspide abierta el gradiente ha de ser ≈0. Esto da la base limpia del CW en TEP y HP.
+2. **Motor** · motor.mjs (activación del VD, `fSubidaVd/qSubidaVd`, `kEyecVd`): TEP g=1 con pico único (hoy r75 0,65 y muesca en «W»); normal en domo (hoy meseta y segunda joroba; M1 lo dejó). Sin mover vIT/PSAP más de ±5 %.
+3. **Dibujo** · doppler.mjs / simulador.mjs (`columnaEspectro`, escala del CW): escala automática por pico (±250 / ±400 / ±700) para que el chorro ocupe ≥60 % de la pantalla y no se recorte (IM −363 en −350).
+4. **Dibujo** · doppler.mjs `fuenteEnMuestra` (regtricus): pintar también el llenado diastólico positivo (E/A) sobre la base, como Zoghbi Fig. 29-30, y relleno con densidad modal (borde denso, interior más tenue).
+5. **Dibujo/móvil** · css/components.css:2486 (`.cv-eco-fijo:has(.cv-gravedad:not([hidden]))`) y eco.html:286: con modo M o D abiertos, no fijar el bloque o plegar `#cv-grav-txt` a una línea; hoy tapa el espectro en el TEP.
+6. **Dibujo** · corazon-geo.mjs (M3, `ajustes.mcconnell`) + simulador: en el TEP, vista «foco VD» por defecto o más cierre apical para que McConnell se lea sin pista; mejor aún, ápex por volumen regional del motor (contrato.mjs `regionalDe`).
+7. **Dibujo** · js/data/eco-tejidos.js `PARED_AURICULAR_NUEVO` y corazon-geo.mjs (AI, aorta descendente): AI 3-4 dB más tenue que el VI y sin esquinas; anillo de la aorta descendente más pequeño y menos brillante.
+8. **Dibujo** · ecografia.mjs (caída lateral): difuminar las rayas horizontales del borde izquierdo del SC4C.
+9. **Motor** · escenarios.mjs: HP/TEP g=0 ≡ normal y pico del CW también correcto con g<0,4.
+10. **Herramienta** · capturas-realismo.mjs: `u.pad` sale undefined («PA 105/undefined»); leer el campo diastólico correcto del motor.
